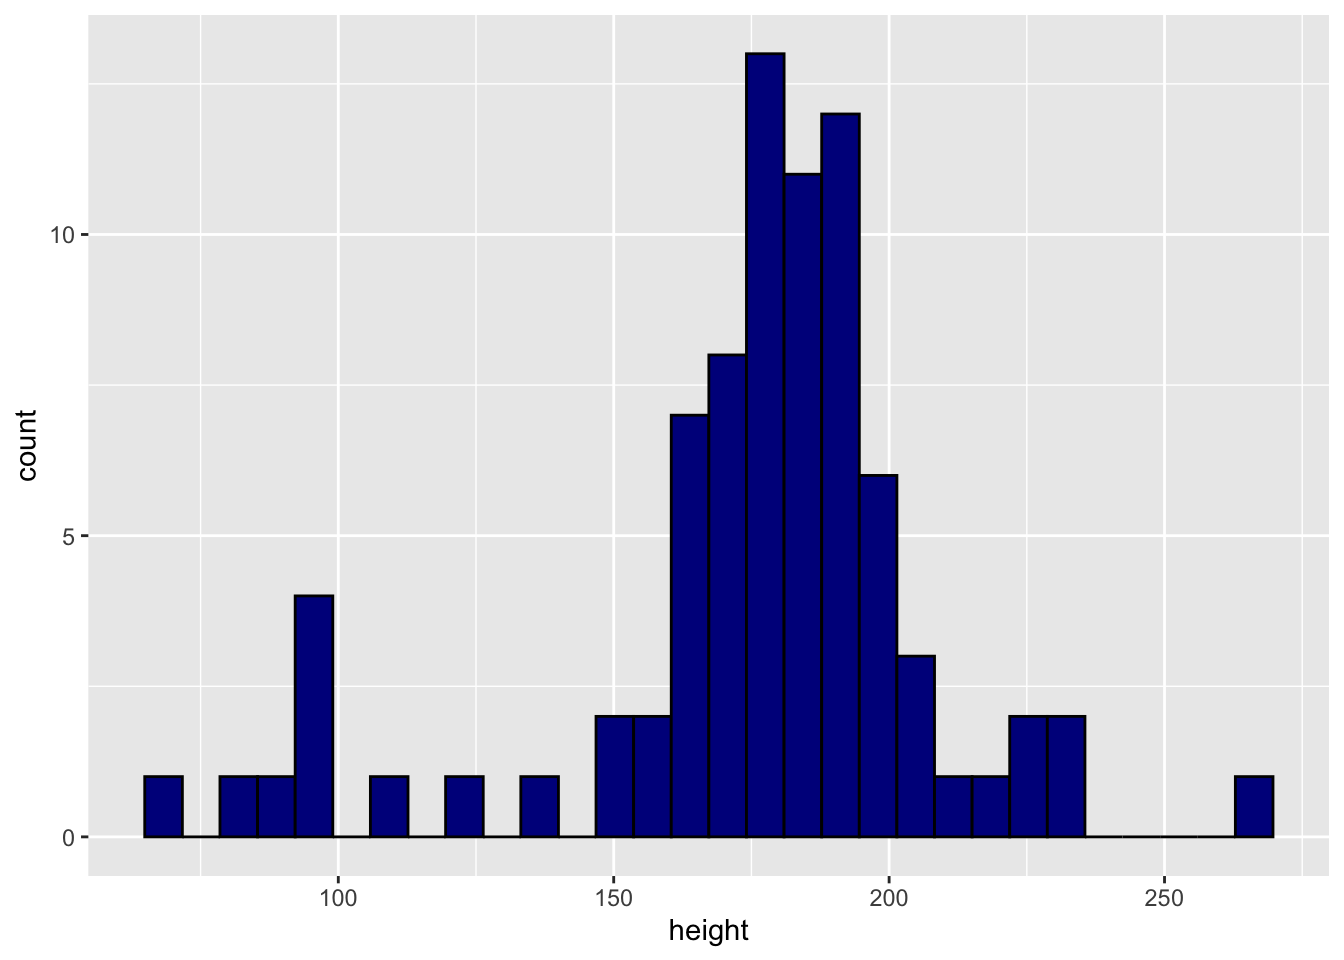
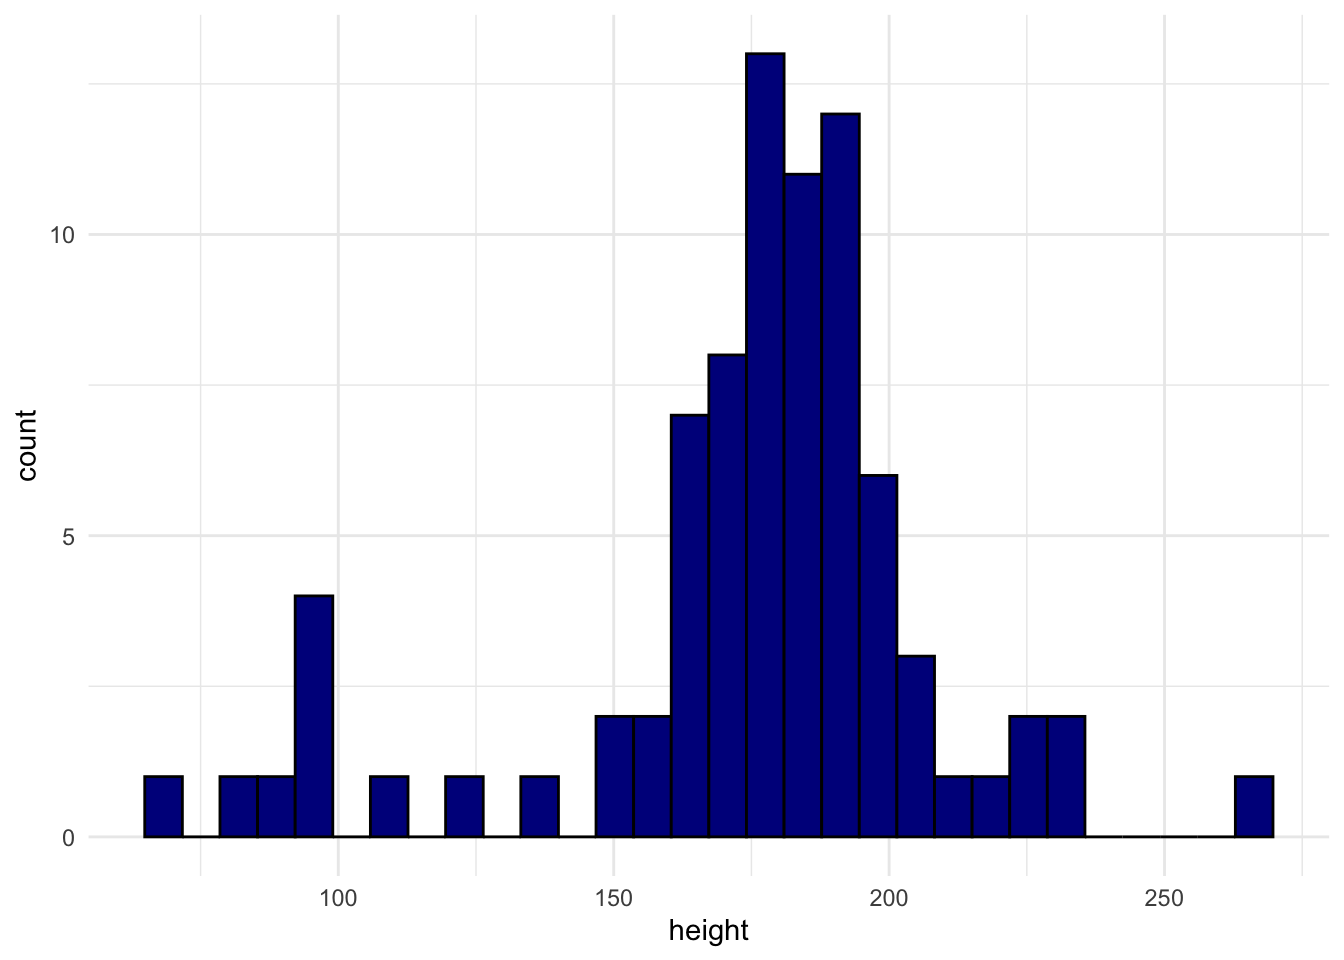
quarto practice complete

diff --git a/quarto-practice.html b/quarto-practice.html
@@ -106,7 +106,7 @@ pre > code.sourceCode > span > a:first-child::before { text-decoration: underlin
 </div>
 </div>
 <div class="cell">
-<div class="sourceCode cell-code" id="cb2"><pre class="sourceCode r code-with-copy"><code class="sourceCode r"><span id="cb2-1"><a href="#cb2-1" aria-hidden="true" tabindex="-1"></a>starwars <span class="sc">%&gt;%</span> <span class="fu">ggplot</span>(<span class="fu">aes</span>(<span class="at">x =</span> height)) <span class="sc">+</span> <span class="fu">geom_histogram</span>(<span class="at">col =</span> <span class="st">"black"</span>,<span class="at">fill =</span> <span class="st">"darkblue"</span>, <span class="at">bins =</span> <span class="dv">30</span>)</span></code><button title="Copy to Clipboard" class="code-copy-button"><i class="bi"></i></button></pre></div>
+<div class="sourceCode cell-code" id="cb2"><pre class="sourceCode r code-with-copy"><code class="sourceCode r"><span id="cb2-1"><a href="#cb2-1" aria-hidden="true" tabindex="-1"></a>starwars <span class="sc">%&gt;%</span> <span class="fu">ggplot</span>(<span class="fu">aes</span>(<span class="at">x =</span> height)) <span class="sc">+</span> <span class="fu">geom_histogram</span>(<span class="at">col =</span> <span class="st">"black"</span>,<span class="at">fill =</span> <span class="st">"darkblue"</span>, <span class="at">bins =</span> <span class="dv">30</span>) <span class="sc">+</span> <span class="fu">theme_minimal</span>()</span></code><button title="Copy to Clipboard" class="code-copy-button"><i class="bi"></i></button></pre></div>
 <div class="cell-output-display">
 <p><img src="quarto-practice_files/figure-html/unnamed-chunk-4-1.png" class="img-fluid" width="672"></p>
 </div>
